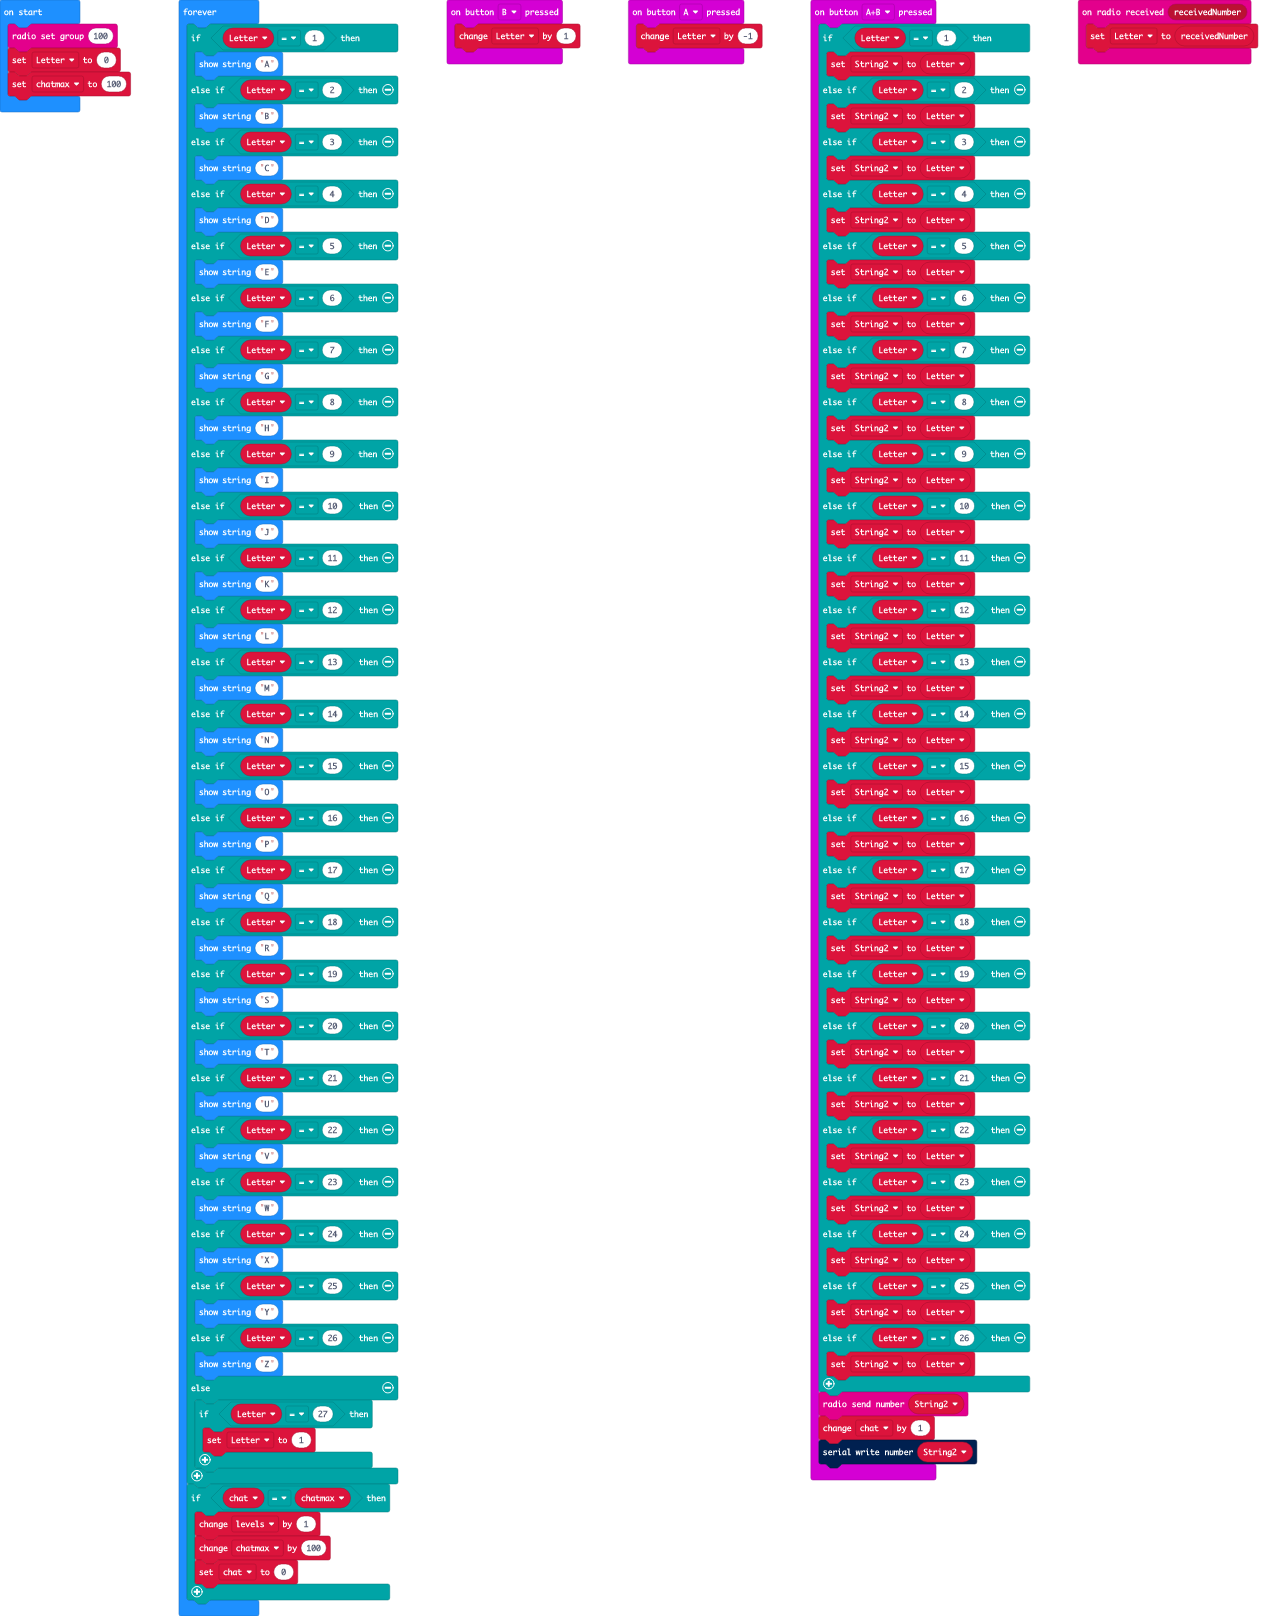
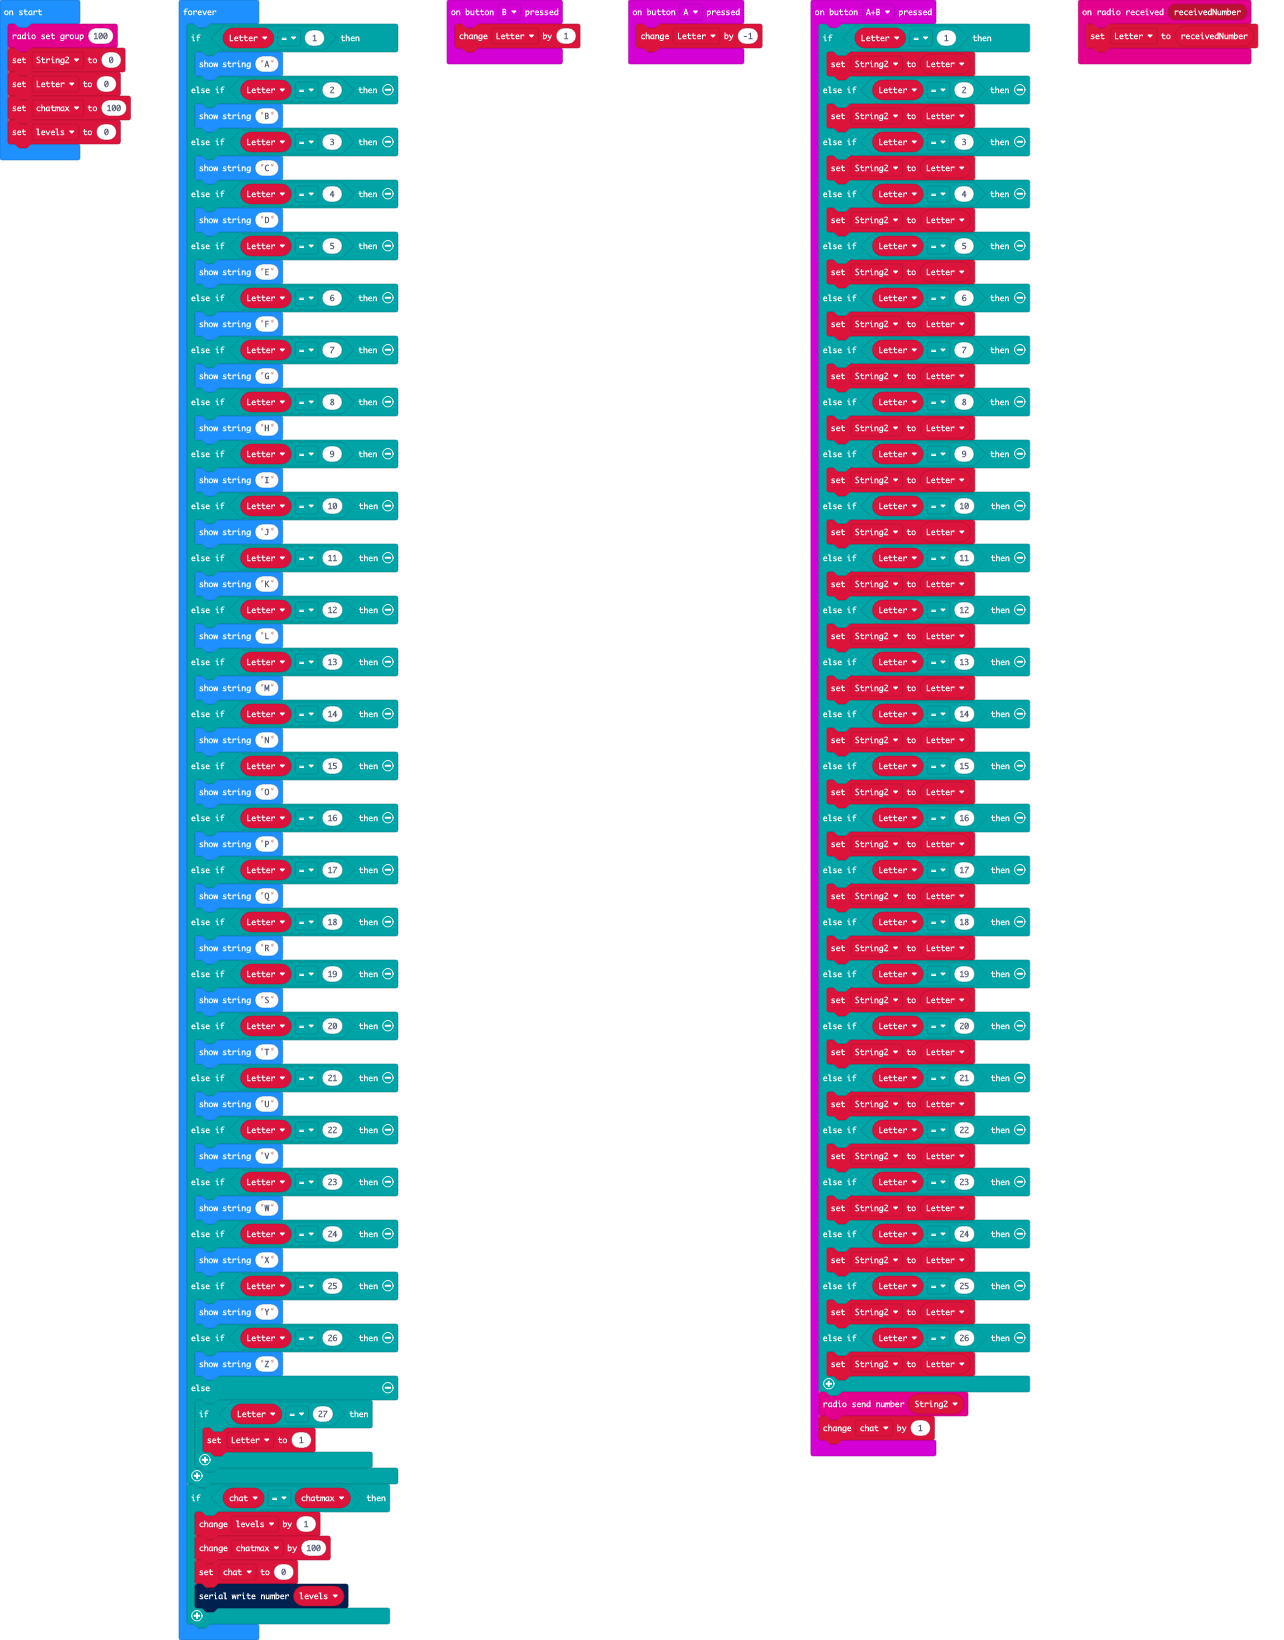
Update main.blocks, main.ts

diff --git a/main.ts b/main.ts
@@ -60,18 +60,18 @@ input.onButtonPressed(Button.AB, function () {
     }
     radio.sendNumber(String2)
     chat += 1
-    serial.writeNumber(String2)
 })
 input.onButtonPressed(Button.B, function () {
     Letter += 1
 })
-let levels = 0
 let chat = 0
-let String2 = 0
 let Letter = 0
+let String2 = 0
 radio.setGroup(100)
+String2 = 0
 Letter = 0
 let chatmax = 100
+let levels = 0
 basic.forever(function () {
     if (Letter == 1) {
         basic.showString("A")
@@ -134,5 +134,6 @@ basic.forever(function () {
         levels += 1
         chatmax += 100
         chat = 0
+        serial.writeNumber(levels)
     }
 })
